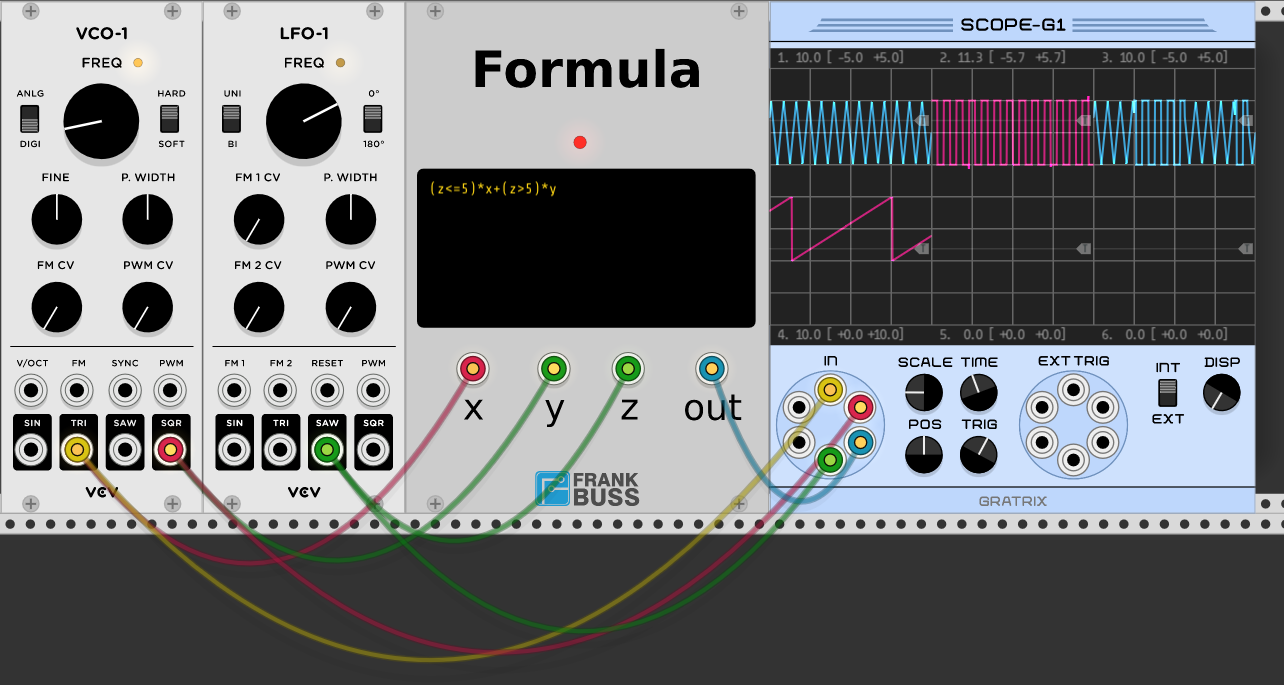
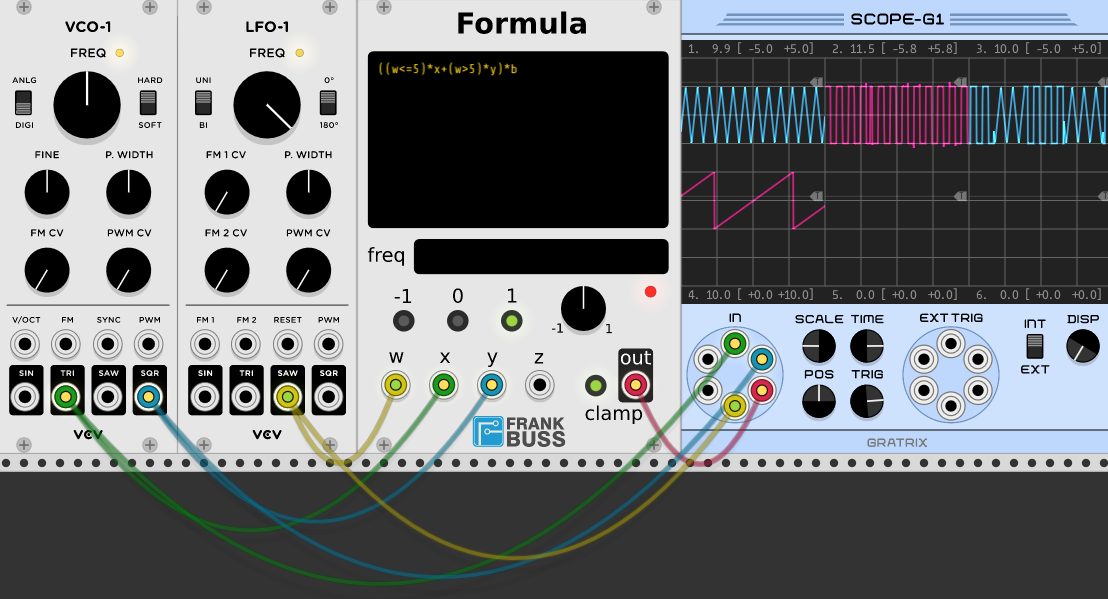
documentation updated and clamp button bugfix

diff --git a/src/MyModule.cpp b/src/MyModule.cpp
@@ -71,16 +71,16 @@ struct FrankBussFormulaModule : Module {
 	void step() override {
 		if (clampTrigger.process(params[CLAMP_PARAM].value)) {
 			doclamp = !doclamp;
-		}	
+		}
 		if (bMinus1Trigger.process(params[B_MINUS_1_PARAM].value)) {
 			radiobutton = -1.0f;
 		}	
 		if (b0Trigger.process(params[B_0_PARAM].value)) {
 			radiobutton = 0.0f;
-		}	
+		}
 		if (b1Trigger.process(params[B_1_PARAM].value)) {
 			radiobutton = 1.0f;
-		}	
+		}
 		
 		float deltaTime = engineGetSampleTime();
 
@@ -238,7 +238,7 @@ struct FrankBussFormulaWidget : ModuleWidget {
 		addParam(ParamWidget::create<LEDButton>(Vec(30, 260), module, FrankBussFormulaModule::B_MINUS_1_PARAM, 0.0f, 1.0f, 0.0f));
 		addChild(ModuleLightWidget::create<MediumLight<GreenLight>>(Vec(34.4f, 264.4f), module, FrankBussFormulaModule::B_MINUS_1_LIGHT));
 		
-		addParam(ParamWidget::create<LEDButton>(Vec(75, 260), module, FrankBussFormulaModule::B_0_PARAM, 0.0f, 1.0f, 1.0f));
+		addParam(ParamWidget::create<LEDButton>(Vec(75, 260), module, FrankBussFormulaModule::B_0_PARAM, 0.0f, 1.0f, 0.0f));
 		addChild(ModuleLightWidget::create<MediumLight<GreenLight>>(Vec(79.4f, 264.4f), module, FrankBussFormulaModule::B_0_LIGHT));
 
 		addParam(ParamWidget::create<LEDButton>(Vec(120, 260), module, FrankBussFormulaModule::B_1_PARAM, 0.0f, 1.0f, 0.0f));
@@ -253,7 +253,7 @@ struct FrankBussFormulaWidget : ModuleWidget {
 		addInput(Port::create<PJ301MPort>(Vec(100, 310), Port::INPUT, module, FrankBussFormulaModule::Y_INPUT));
 		addInput(Port::create<PJ301MPort>(Vec(140, 310), Port::INPUT, module, FrankBussFormulaModule::Z_INPUT));
 
-		addParam(ParamWidget::create<LEDButton>(Vec(190, 314), module, FrankBussFormulaModule::CLAMP_PARAM, 0.0f, 1.0f, 1.0f));
+		addParam(ParamWidget::create<LEDButton>(Vec(190, 314), module, FrankBussFormulaModule::CLAMP_PARAM, 0.0f, 1.0f, 0.0f));
 		addChild(ModuleLightWidget::create<MediumLight<GreenLight>>(Vec(194.4f, 318.4f), module, FrankBussFormulaModule::CLAMP_LIGHT));
 
 		addOutput(Port::create<PJ301MPort>(Vec(220, 310), Port::OUTPUT, module, FrankBussFormulaModule::FORMULA_OUTPUT));

diff --git a/README.md b/README.md
@@ -2,105 +2,122 @@
 
 A formula module for VCV Rack, by Frank Buss, based on BokontepByteBeatMachine.
 
-This plugin provides 3 inputs: x, y and z. In the text field you can write a 
+This plugin provides 4 inputs: w, x, y and z. In the text field you can write a
 formula for the output. For example `x+y` would be a simple adder.
-
-Some functions take 2 arguments. For example you could use the max function, to 
-get either the input x or the input y, depending on which voltage is higher: 
-`max(x, y)`.
-
-The red LED is blinking if there is a parsing error. If it is on, the formula 
-is running.
 
 ![alt text](add.png "Add example")
 
-It works with CV and audio signals. The output is clamped to -5V/+5V. Some more 
-examples for what you can use it:
+Some functions take 2 arguments. For example you could use the max function, to
+get either the input x or the input y, depending on which voltage is higher:
+`max(x, y)`.
+
+The red LED is blinking if there is a parsing error. If it is on, the formula is
+running.
+
+The integrated knob is available as the variable `k`. The integrated -1 / 0 / +1
+radio buttons are available as the variable `b`.
+
+The frequency field is another formula, all variables can be used for it. The
+result of this formula is used as the frequency for an integrated sawtooth
+oscillator, available as the variable `p` (phase). It starts at 0 and wraps
+around at 1.
+
+It works with CV and audio signals. The output is clamped to -5V/+5V, if the
+clamp toggle button is pressed. Some more examples for what you can use it:
 
 # Waveform Generator
 
-You can also use functions, see later for a list of all available functions, 
-and you can use the variable `pi`. In combination with a sawtooth, this can be 
-used as a mathematically wave generator. The sawtooth has to be a simple 
-generator, with no anti-aliasing algorithms, because the falling edge of the 
-ramp needs to be with no smoothing in one sample. Otherwise there would be 
-samples from the rising part created, which results in distortions.
+You can also use functions, see later for a list of all available functions, and
+you can use the variable `pi`. In combination with the integrated sawtooth, this
+can be used as a mathematically wave generator. The sawtooth has to be a simple
+generator, with no anti-aliasing algorithms, because the falling edge of the
+ramp needs to be with no smoothing in one sample. Otherwise there would be
+samples from the rising part created, which results in distortions. The
+integrated oscillator has this property.
 
-s-ol's Circle VCO is such an oscillator. It outputs a ramp from 0V to 5V at a 
-frequency of 187.5 Hz, if the pitch knob is at 0. So a sine wave with the usual 
-10Vpp can be generated with `sin(2*pi*x/5)*5`.
+So a sine wave with the usual 10Vpp can be generated with `sin(2*pi*p/5)*5`. In
+the freq field you can enter the frequency formula, which could be a simple
+number as well, like 440 for 440 Hz.
 
-More complex formulas are possible as well, you can enter multiple lines. For 
-example this approximates the square wave function with additive synthesis with 
+More complex formulas are possible as well, you can enter multiple lines. For
+example this approximates the square wave function with additive synthesis with
 the base frequency and the first 3 harmonics of the square wave:
 
 ```
 4*(
-sin(2*pi*x/5)+
-sin(6*pi*x/5)/3+
-sin(10*pi*x/5)/5+
-sin(14*pi*x/5)/7
+sin(2*pi*p)+
+sin(6*pi*p)/3+
+sin(10*pi*p)/5+
+sin(14*pi*p)/7
 )
 ```
 
 ![alt text](formula.png "Additive synthesis example")
 
+The variable `k` in the frequency field allows to use the integrated knob to
+adjust the frequency. You could use any of the inputs as well to modify it and
+to build a full featured VCO.
 
 # Level Converter
 
-Another wider range of applications is parameter adjustment. For example the 
-VCO-1 in Fundamental has a V/OCT input. This means when you create a new 
-instance with the initial frequency for C4 (261.626 Hz) and apply 1 V, the 
+Another wider range of applications is parameter adjustment. For example the
+VCO-1 in Fundamental has a V/OCT input. This means when you create a new
+instance with the initial frequency for C4 (261.626 Hz) and apply 1 V, the
 frequency will be increased by one octave to C5 (523.252 Hz).
 
-But what if you have a linear V/Hz CV signal and want to convert it in a way 
-that it can be used with a V/OCT input? Then you need to calculate the log to 
-base 2 of the input level. There is only the log function to base e and base 10 
-available in Formula, but with `log(x)/log(2)` you can calculate the signal. So 
-for `x=1.5` it would be exactly `1.5 * 261.626 Hz = 392.439 Hz`.
+But what if you have a linear V/Hz CV signal and want to convert it in a way
+that it can be used with a V/OCT input? Then you need to calculate the log to
+base 2 of the input level, which is the function log2. So for `x=1.5` it would
+be exactly `1.5 * 261.626 Hz = 392.439 Hz`.
 
 ![alt text](oct-hz.png "Level converter")
 
 # Relational operators
 
-The relational operators (<, >, <= and >=) allow other interesting 
-applications. For example if you want to select one of two signals, based on 
-the CV level of another signal (a multiplexer). Then you could use the formula 
-`(z<=5)*x+(z>5)*y`. This would output x, if the level at the z input is 5V or 
-less, otherwise it outputs y. It works because if `z<=5` is valid, the term 
-evaluates to 1, otherwise to 0.
+The relational operators (<, >, <= and >=) allow other interesting applications.
+For example if you want to select one of two signals, based on the CV level of
+another signal (a multiplexer), then you could use the formula
+`((w<=5)*x+(w>5)*y)*b`. This would output `x`, if the level at the `w` input is
+5V or less, otherwise it outputs `y`. It works because if `w<=5` is valid, the
+term evaluates to 1, otherwise to 0. Additionally the multiplication with the
+variable `b` allows to mute the signal, if the 0 radio button is selected.
 
 ![alt text](mux.png "Multiplexer")
 
 # Boolean operators
 
-Finally there are the boolean operators `&` for logical-and, `|` for logical-or 
-and `!`for not. This can be useful, if you want to test two signals with the 
-relational operators, like if x and y has some minimum value at the same time, 
-only then output the value of z. Or you could even use it to implement a 10 
-step sequencer with chromatic scale:
+Finally there are the boolean operators `&` for logical-and, `|` for logical-or
+and `!`for not. This can be useful, if you want to test two signals with the
+relational operators, like if x and y has some minimum value at the same time,
+only then output the value of z. Or you could even use it to implement a 10 step
+sequencer with chromatic scale:
 
 ```
-((x>=0 & x<1) * 1 + (x>=1 & x<2) * 5 +
-(x>=2 & x<3) * 8 + (x>=3 & x<4) * 9 +
-(x>=4 & x<5) * 10 + (x>=5 & x<6) * 12 +
-(x>=6 & x<7) * 10 + (x>=7 & x<8) * 9 +
-(x>=8 & x<9) * 8 + (x>=9 & x<10) * 5)
-/ 12
+((p>=0.0&p<0.1)*1+(p>=0.1&p<0.2)*5+
+(p>=0.2&p<0.3)*8+(p>=0.3&p<0.4)*9+
+(p>=0.4&p<0.5)*10+(p>=0.5&p<0.6)*12+
+(p>=0.6&p<0.7)*10+(p>=0.7&p<0.8)*9+
+(p>=0.8&p<0.9)*8+(p>=0.9&p<1.0)*5)
+/12
 ```
 
-Try it and listen to it, then change the factors interactively. Unlike a normal 
-step sequencer, you can adjust the length of the indivual steps as well by 
-changing the x time windows, lots of fun :-)
+The knob can be used to change the frequency. Try it and listen to it, then
+change the factors interactively. Unlike a normal step sequencer, you can adjust
+the length of the indivual steps as well by changing the p time windows, lots of
+fun :-)
 
 ![alt text](sequencer.png "Sequencer")
 
 # Quantizer
 
-You can use the `floor` function to implement a simple quantizer. This function 
-rounds the value down to the next integer value. For example `floor(1.8)=1`. 
-For a chromatic quantizer, only the voltages 0, 1/12, 2/12 etc. are allowed. 
-This can be enforced with this formula: `floor(x*12)/12`.
+You can use the `floor` function to implement a simple quantizer. This function
+rounds the value down to the next integer value. For example `floor(1.8)=1`. For
+a chromatic quantizer, only the voltages 0, 1/12, 2/12 etc. are allowed. This
+can be enforced with this formula: `floor(k*12)/12`. With the variable `k` you
+can use the integrated knob to adjust the output in the range from -1 to 1
+octave, using a chromatic scale. Of course you can use the inputs as well
+instead of the knob, or add both, like `floor(x)+k`, which would quantize the
+input `x`, but would allow a fine adjustment with the knob.
 
 ![alt text](quantizer.png "Quantizer")
 
@@ -108,8 +125,8 @@ This can be enforced with this formula: `floor(x*12)/12`.
 
 The following functions are implemented:
 
-acos, asin, atan, atan2, cos, cosh, exp, fabs, fmod, log, log10, pow, sin, 
-sinh, tan, tanh, sqrt, ceil, floor, max, and min. See here for a detailed 
+acos, asin, atan, atan2, cos, cosh, exp, fabs, fmod, log, log2, log10, pow, sin,
+sinh, tan, tanh, sqrt, ceil, floor, max, and min. See here for a detailed
 description of each function: http://www.cplusplus.com/reference/cmath/
 
 The full BNF grammar for the parser looks like this:
@@ -137,5 +154,5 @@ unsigned-real = [0-9]* [.] [0-9]* [real-exponent]
 real-exponent = [e|E] [+|-] [0-9]+
 ```
 
-I wrote the formula library in 2001, here is the original page with a function 
+I wrote the formula library in 2001, here is the original page with a function
 plotter as another example: http://www.frank-buss.de/formula/index.html
